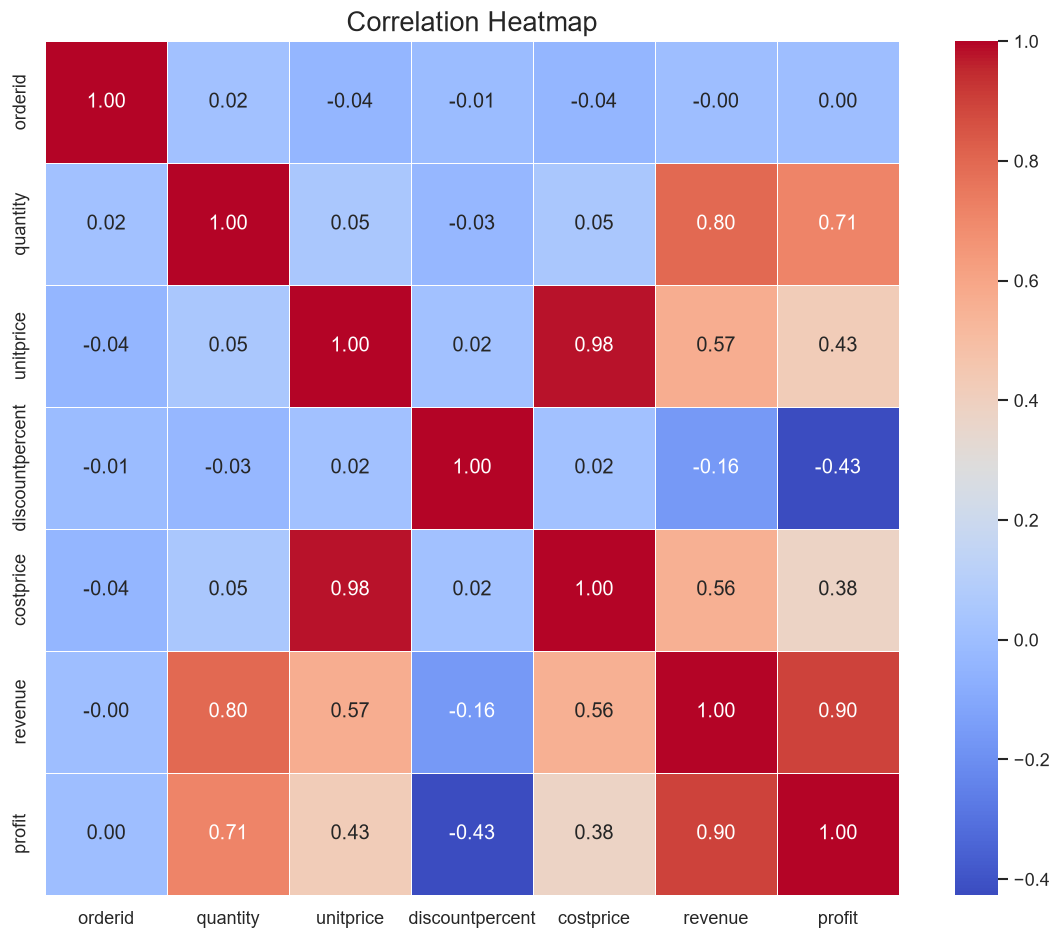
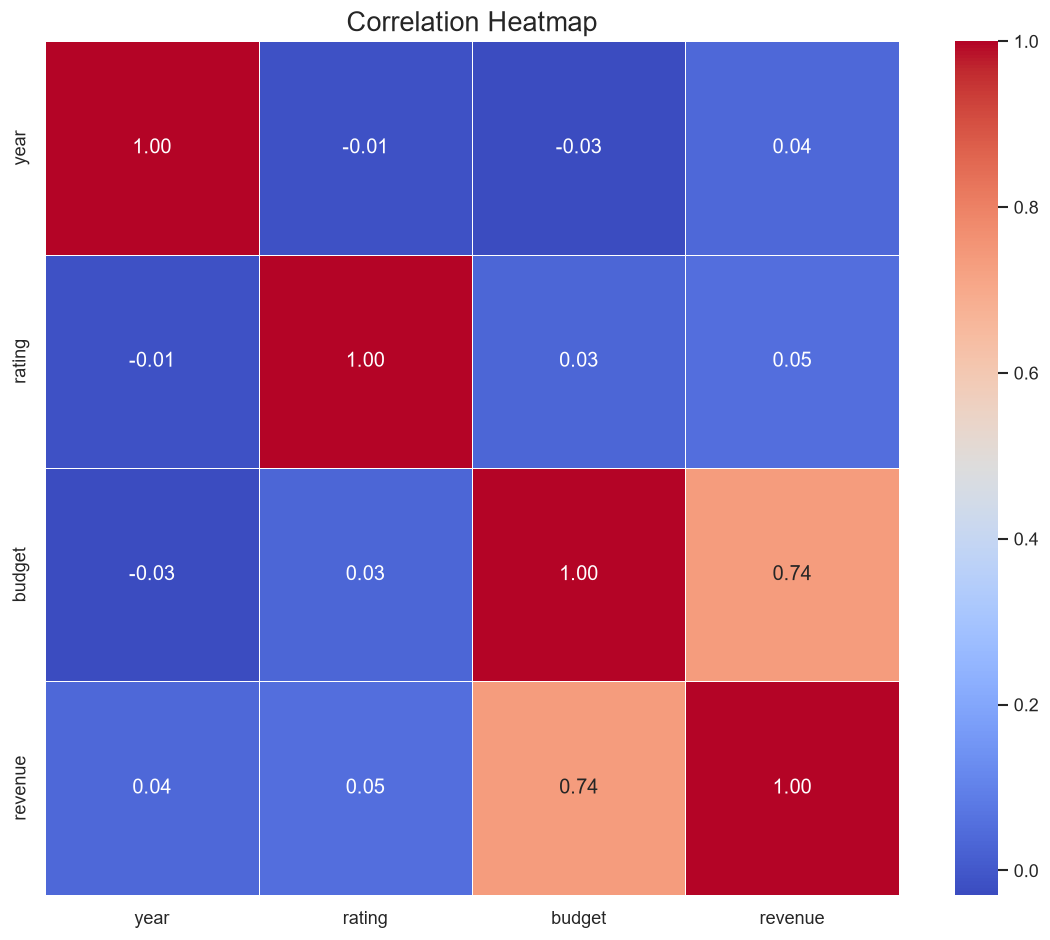
better insight operation

diff --git a/frontend/src/components/Insights.css b/frontend/src/components/Insights.css
@@ -1,58 +1,203 @@
+/* ==========================================
+   INSIGHTS SECTION
+========================================== */
+
 .insights-container{
-    margin-top:40px;
+
+    margin-top:60px;
+
 }
 
 .insights-title{
-    font-size:30px;
-    color:#1f2937;
-    margin-bottom:25px;
+
     text-align:center;
+
+    font-size:34px;
+
+    font-weight:700;
+
+    color:#1e293b;
+
+    margin-bottom:10px;
+
 }
+
+.insights-subtitle{
+
+    text-align:center;
+
+    color:#64748b;
+
+    margin-bottom:35px;
+
+    font-size:16px;
+
+}
+
+/* ==========================================
+   GRID
+========================================== */
 
 .insights-grid{
+
     display:grid;
-    grid-template-columns:repeat(auto-fit,minmax(320px,1fr));
-    gap:20px;
+
+    grid-template-columns:repeat(auto-fit,minmax(360px,1fr));
+
+    gap:24px;
+
 }
 
+/* ==========================================
+   CARD
+========================================== */
+
 .insight-card{
-    display:flex;
-    align-items:flex-start;
-    gap:15px;
+
+    position:relative;
 
     background:white;
 
-    padding:20px;
+    border-radius:18px;
+
+    padding:26px;
+
+    display:flex;
+
+    align-items:flex-start;
+
+    gap:18px;
 
     border-left:6px solid #2563eb;
 
-    border-radius:12px;
+    box-shadow:0 10px 24px rgba(0,0,0,.08);
 
-    box-shadow:0 5px 12px rgba(0,0,0,.08);
+    transition:.35s;
 
-    transition:.3s;
+    overflow:hidden;
+
+}
+
+.insight-card::before{
+
+    content:"";
+
+    position:absolute;
+
+    left:0;
+
+    top:0;
+
+    width:100%;
+
+    height:5px;
+
+    background:linear-gradient(
+        90deg,
+        #2563eb,
+        #60a5fa
+    );
+
 }
 
 .insight-card:hover{
-    transform:translateY(-4px);
-    box-shadow:0 10px 20px rgba(0,0,0,.12);
+
+    transform:translateY(-8px);
+
+    box-shadow:0 18px 35px rgba(37,99,235,.18);
+
 }
+
+/* ==========================================
+   ICON
+========================================== */
 
 .insight-icon{
-    font-size:26px;
+
+    width:58px;
+
+    height:58px;
+
+    border-radius:16px;
+
+    background:linear-gradient(
+        135deg,
+        #2563eb,
+        #60a5fa
+    );
+
+    display:flex;
+
+    justify-content:center;
+
+    align-items:center;
+
+    font-size:28px;
+
+    color:white;
+
+    flex-shrink:0;
+
+    box-shadow:0 8px 18px rgba(37,99,235,.25);
+
 }
 
-.insight-card p{
-    margin:0;
-    color:#374151;
-    line-height:1.6;
-    font-size:15px;
+/* ==========================================
+   CONTENT
+========================================== */
+
+.insight-content{
+
+    flex:1;
+
 }
+
+.insight-heading{
+
+    font-size:17px;
+
+    font-weight:700;
+
+    color:#1e293b;
+
+    margin-bottom:8px;
+
+}
+
+.insight-content p{
+
+    margin:0;
+
+    color:#475569;
+
+    line-height:1.7;
+
+    font-size:15px;
+
+}
+
+/* ==========================================
+   RESPONSIVE
+========================================== */
 
 @media(max-width:768px){
 
 .insights-grid{
-grid-template-columns:1fr;
+
+    grid-template-columns:1fr;
+
+}
+
+.insight-card{
+
+    padding:20px;
+
+}
+
+.insights-title{
+
+    font-size:28px;
+
 }
 
 }